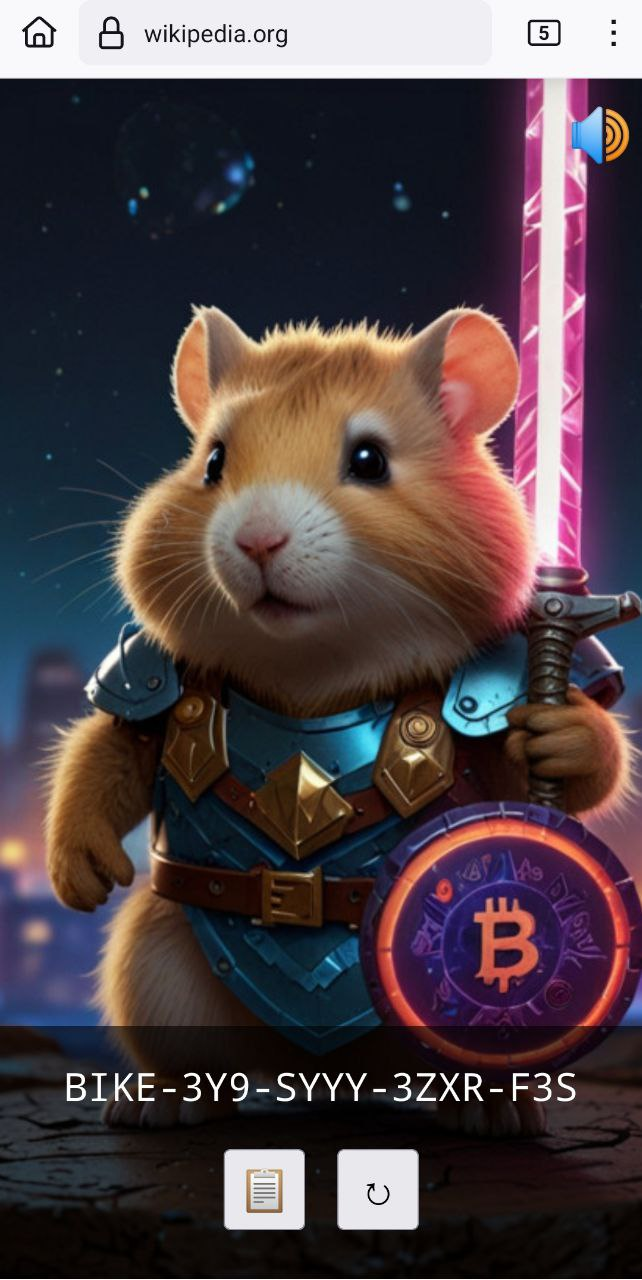
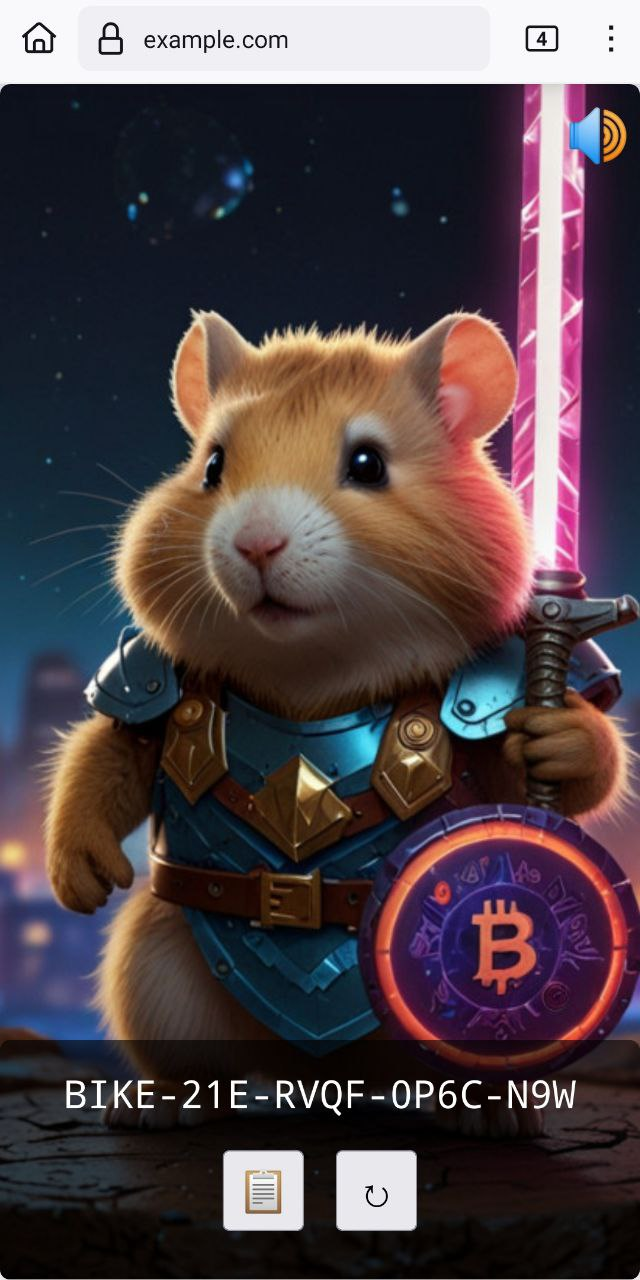
fix domain

diff --git a/script.js b/script.js
@@ -1,11 +1,11 @@
 // ==UserScript==
 // @name        Hamster bike keygen
-// @version     1.1
+// @version     1.2
 // @homepageURL https://github.com/georg95/hamster-bike-keygen/blob/main/README.md
 // @downloadURL https://georg95.github.io/hamster-bike-keygen/script.js
 // @author      georg95
 // @namespace   Violentmonkey Scripts
-// @match       *://*/*
+// @match       *://example.com/*
 // @grant       GM_xmlhttpRequest
 // @grant       GM_getResourceURL
 // @grant       GM_getValue

diff --git a/README.md b/README.md
@@ -14,6 +14,6 @@
 
 <img src="help/5.jpg" width="200"><img src="help/6.jpg" width="200"><img src="help/7.jpg" width="200">
 
-## 5. Go to [any web page](https://www.wikipedia.org/) and click 🚲
+## 5. Go to [this page](https://example.com/) and click 🚲
 
 <img src="help/8.jpg" width="200"><img src="help/9.jpg" width="200"><img src="help/10.jpg" width="200">
